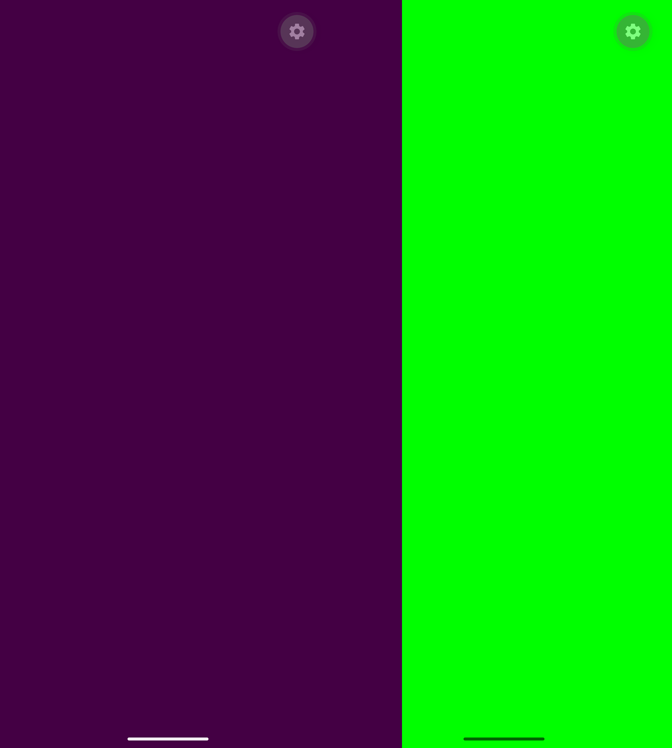
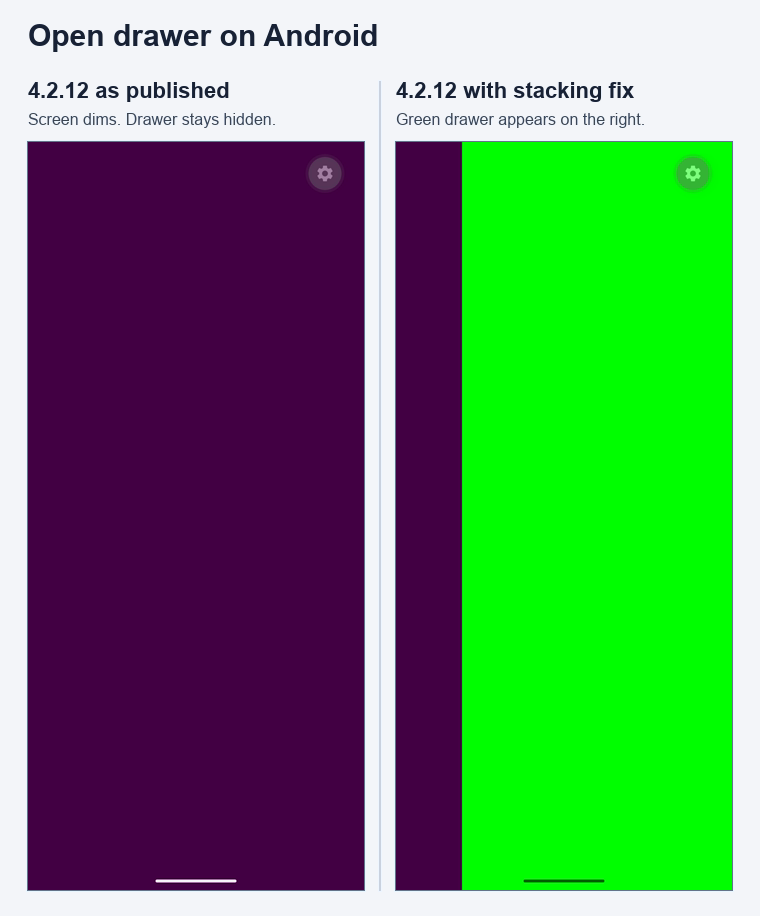
Clarify Android drawer reproduction evidence

Changed region(s): [[0.0, 0.0, 1.0, 1.0]]

diff --git a/README.md b/README.md
@@ -17,4 +17,6 @@ Left shows unmodified `4.2.12`. Right shows the same fixture with only the Andro
 
 ![Open drawer comparison on Android](evidence/android-comparison.png)
 
+[Watch the tap-to-open comparison](evidence/android-drawer-demo.mp4).
+
 Codex prepared the reproduction app and assisted with the emulator verification.
